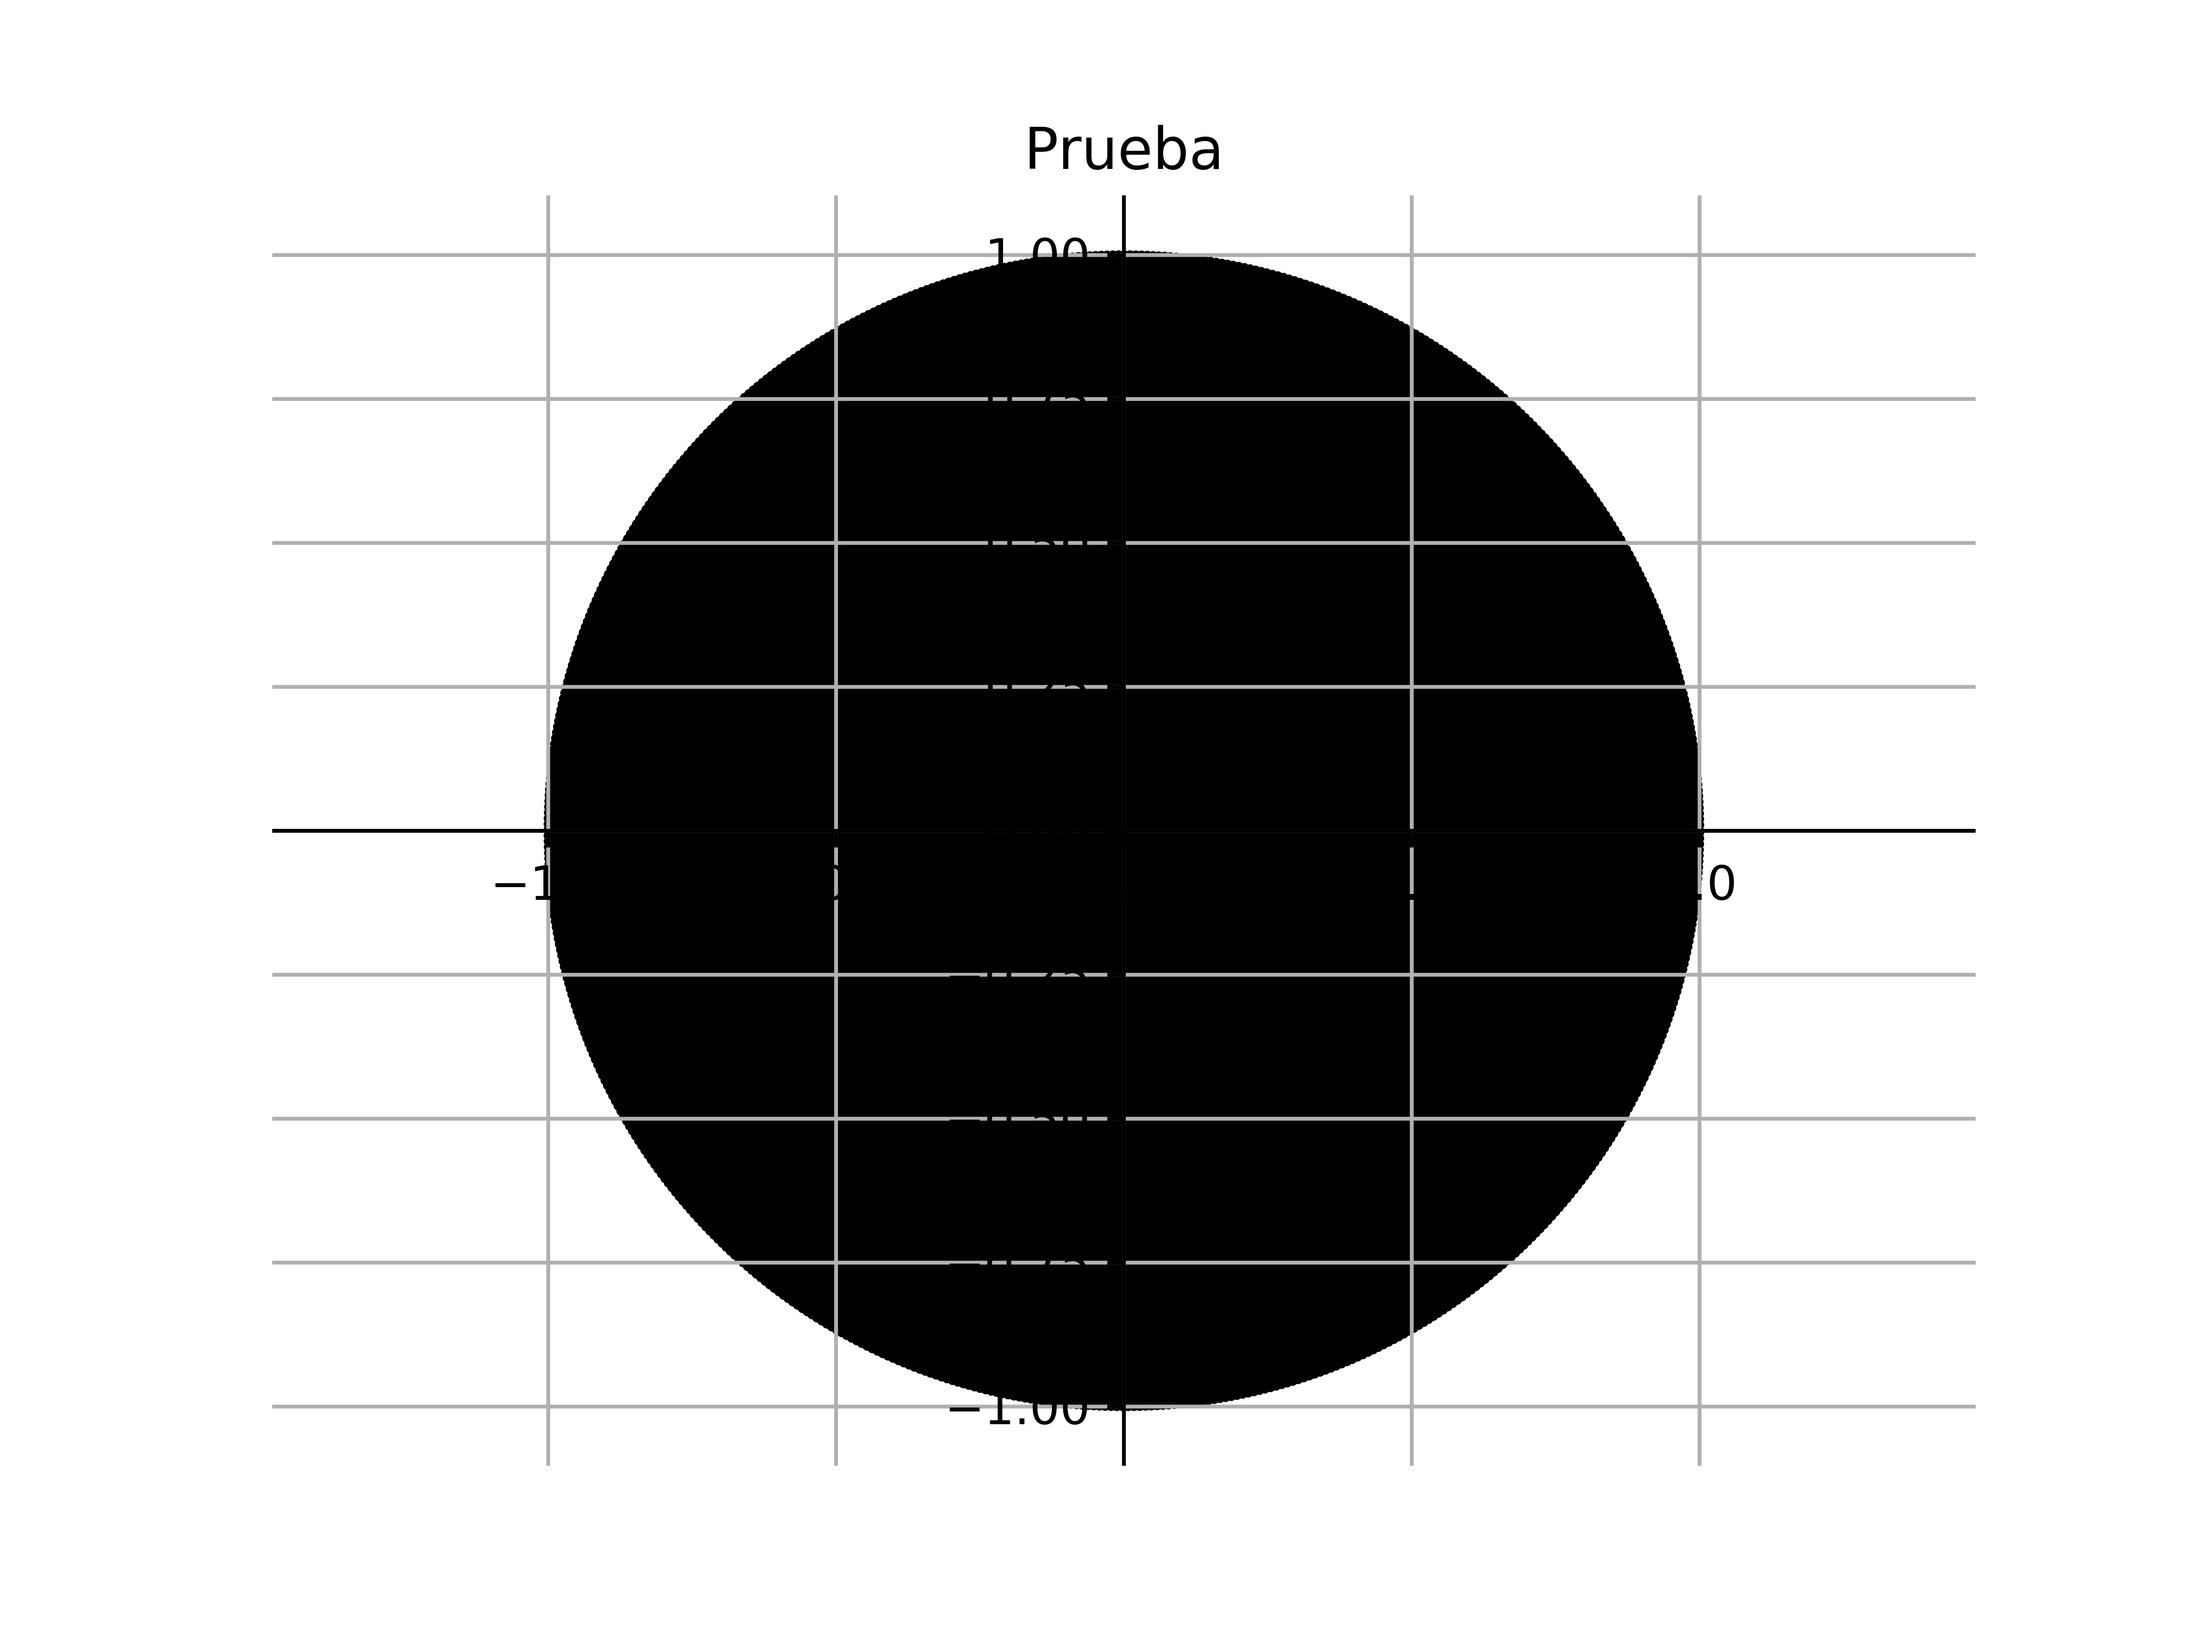
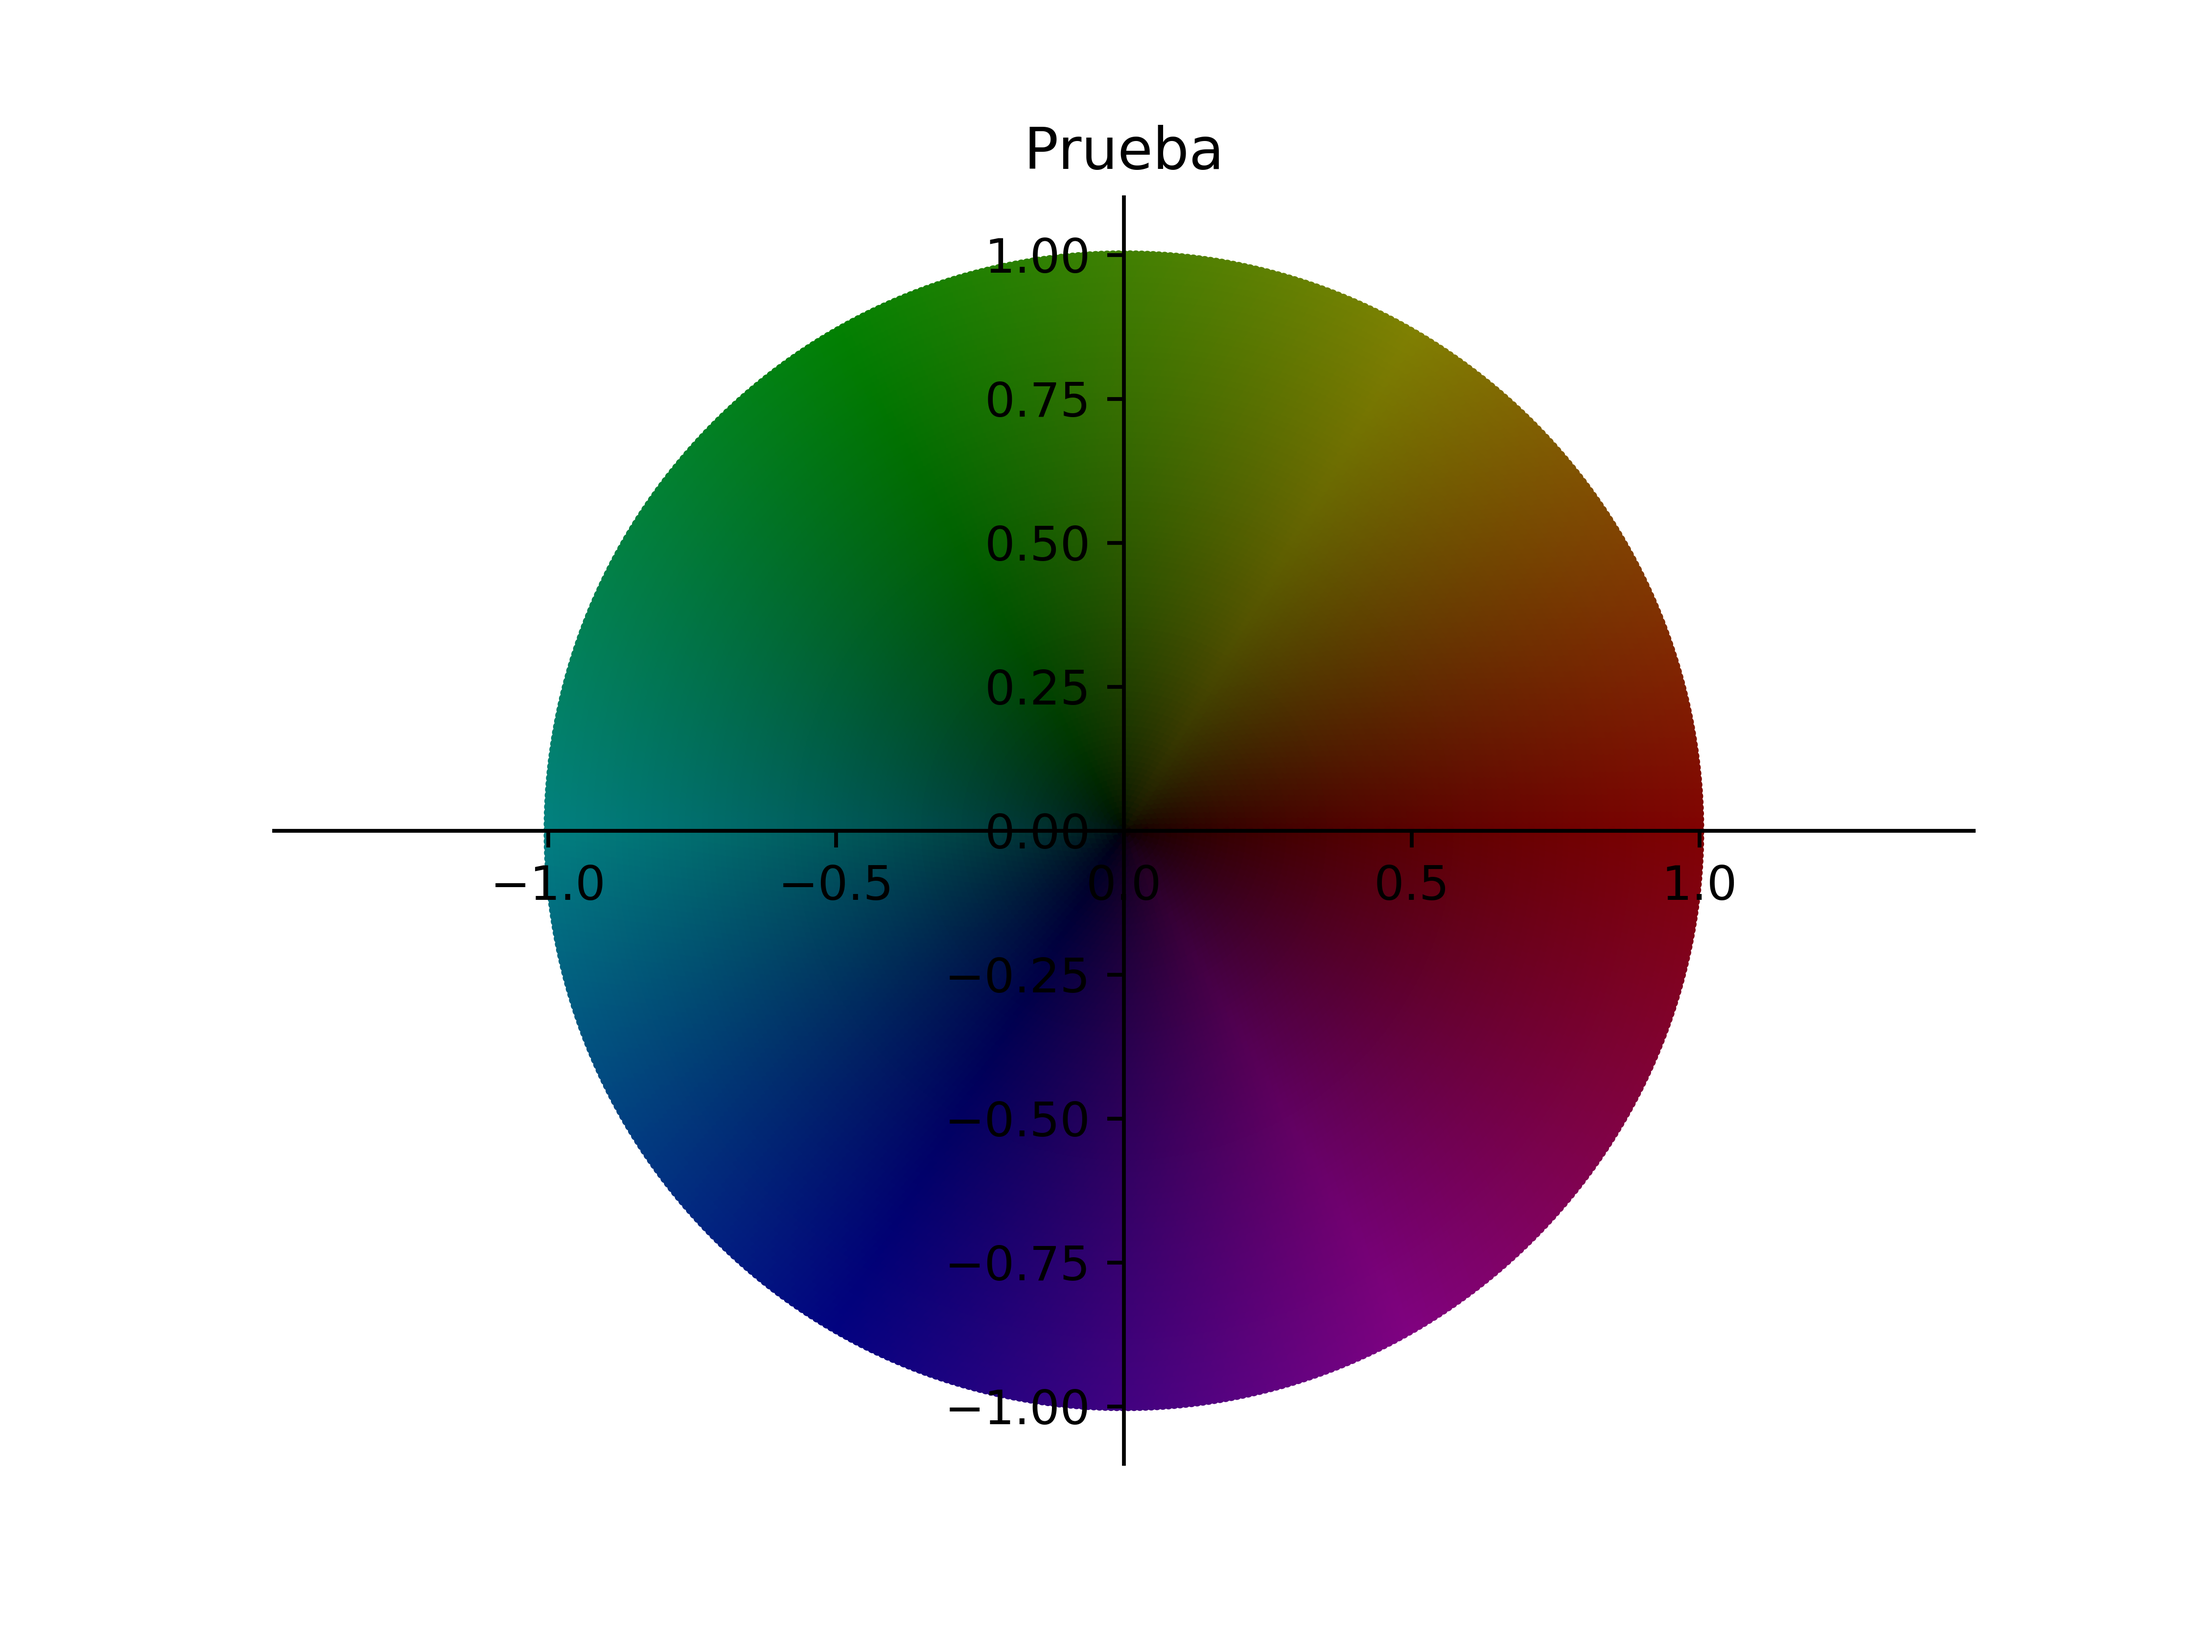
Aplicación: colores arreglados (SID)

diff --git a/Aplicacion/aplicacion.py b/Aplicacion/aplicacion.py
@@ -1,8 +1,6 @@
 import math
 import cmath
-import matplotlib as mpl
 import matplotlib.pyplot as plt
-import numpy as np
 import colorsys
 
 
@@ -13,13 +11,33 @@ def brightness(x):
         return 1 - 8 / ((x + 3) ** 2)
 
 
-def complex_color(z): # esta mal.
+def complex_color(z):
     if z == 0:
-        color = colorsys.hsv_to_rgb(0, 1, 0)
+        rgb = colorsys.hsv_to_rgb(0, 1, 0)
     else:
-        b = brightness(abs(z))
-        color = colorsys.hsv_to_rgb(cmath.phase(z) / (2 * cmath.pi), (1 - b ** 4) ** 0.25, b)
-    return color
+        v = brightness(abs(z))
+        h = cmath.phase(z) / (2 * cmath.pi)
+        s = (1 - v ** 4) ** 0.25
+        rgb = colorsys.hsv_to_rgb(cycle(h), truncate(s), truncate(v))
+    return rgb
+
+
+def truncate(x):
+    if x < 0:
+        return 0
+    elif x < 1:
+        return x
+    else:
+        return 1
+
+
+def cycle(x):
+    if x < 0:
+        return cycle(x + 1)
+    elif x < 1:
+        return x
+    else:
+        return cycle(x - 1)
 
 
 def f1(t):
@@ -30,7 +48,7 @@ def f1(t):
 
 
 def f(t):
-    return t
+    return -20
 
 
 def integral(f, a, limit):
@@ -56,7 +74,7 @@ def poisson(f):
     deltatheta = delta(r, step_distance)
     x = []
     y = []
-    color1 = []
+    rgb = []
     while r <= 1.01:
         while theta < (2 * cmath.pi):
             a = r * cmath.e ** (theta * 1j)
@@ -67,22 +85,22 @@ def poisson(f):
                 fa = f(theta)
             x.append(a.real)
             y.append(a.imag)
-            color1.append(complex_color(fa))
+            rgb.append(complex_color(a))
             theta = theta + deltatheta
         r = r + step_distance
         theta = 0
         deltatheta = delta(r, step_distance)
     # plot result
-    draw(x, y, color1)
+    draw(x, y, rgb)
 
 
-def draw(x, y, color1):
+def draw(x, y, rgb):
     fig = plt.figure()
     ax = fig.add_subplot(1, 1, 1)
 
-    # Move left y-axis and bottim x-axis to centre, passing through (0,0)
-    ax.spines['left'].set_position('center')
-    ax.spines['bottom'].set_position('center')
+    #Move left y-axis and bottim x-axis to centre, passing through (0,0)
+    #ax.spines['left'].set_position('center')
+    #ax.spines['bottom'].set_position('center')
 
     # Eliminate upper and right axes
     ax.spines['right'].set_color('none')
@@ -92,16 +110,16 @@ def draw(x, y, color1):
     ax.xaxis.set_ticks_position('bottom')
     ax.yaxis.set_ticks_position('left')
 
-    ax.grid(True)
+    #ax.grid(True)
     ax.axis('equal')
 
     # Modify axis
     # plt.xticks([-1, -0.5, 0, +0.5, +1])
     # plt.yticks([-1, -0.5, 0, +0.5, +1])
-    plt.axis([-2, 2, -2, 2])
+    #plt.axis([-2, 2, -2, 2])
 
     plt.title('Prueba')
-    plt.scatter(x, y, c=color1, s=1)
+    plt.scatter(x, y, c=rgb, s=1)
     plt.savefig("disco.png", dpi=700)
     plt.show()
 
